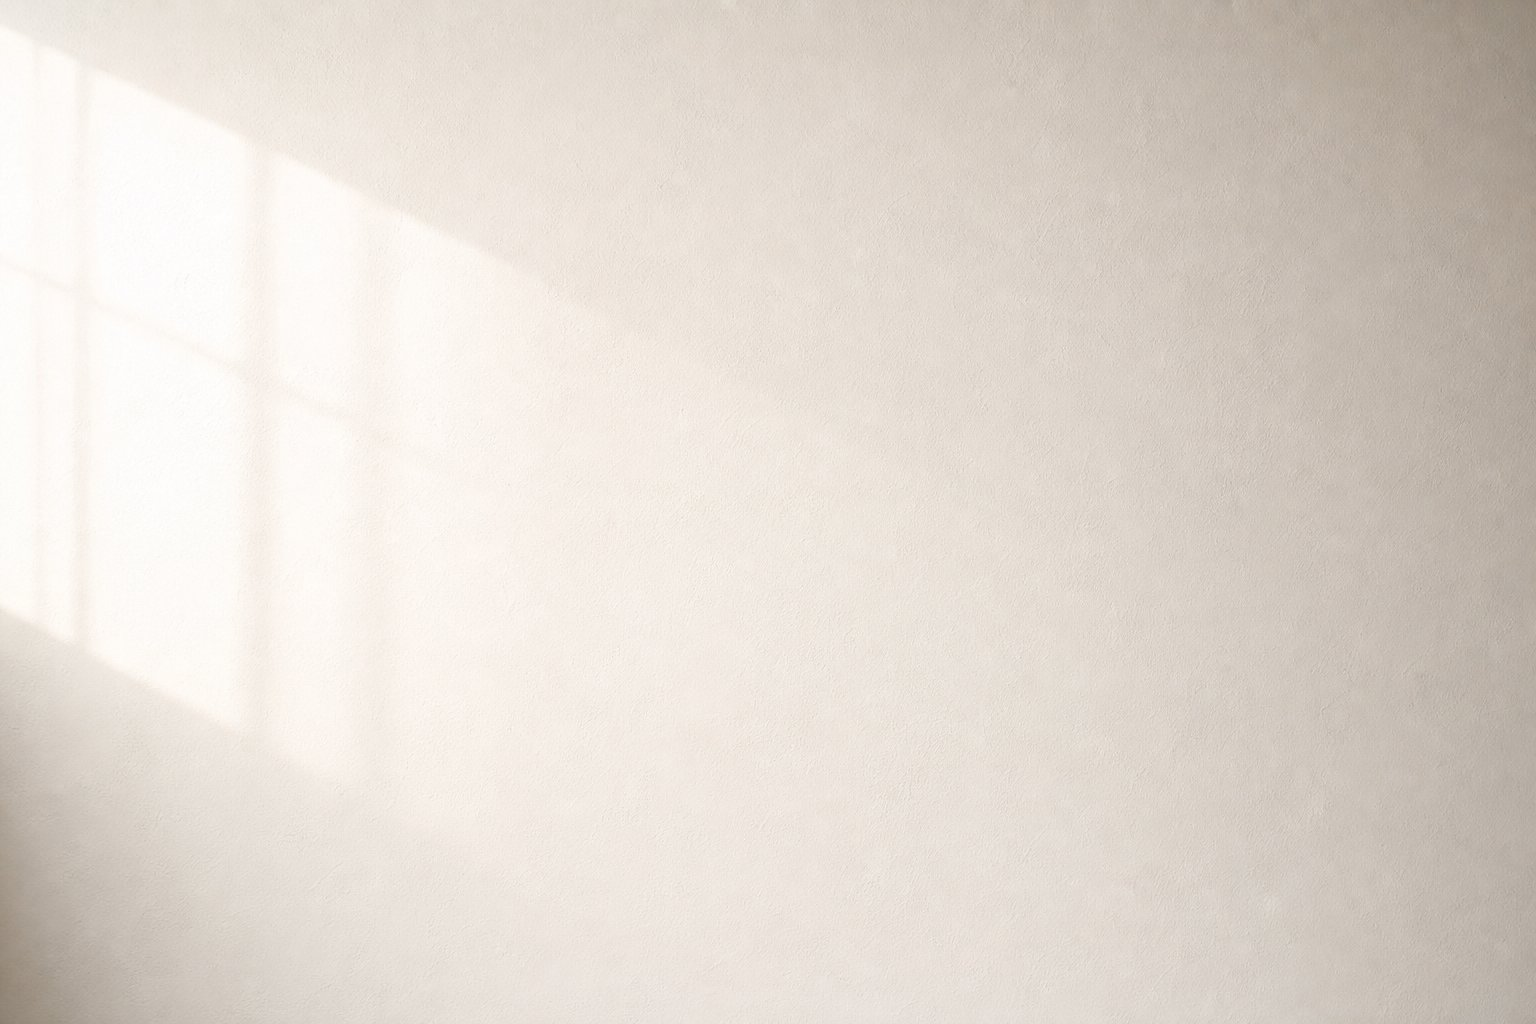
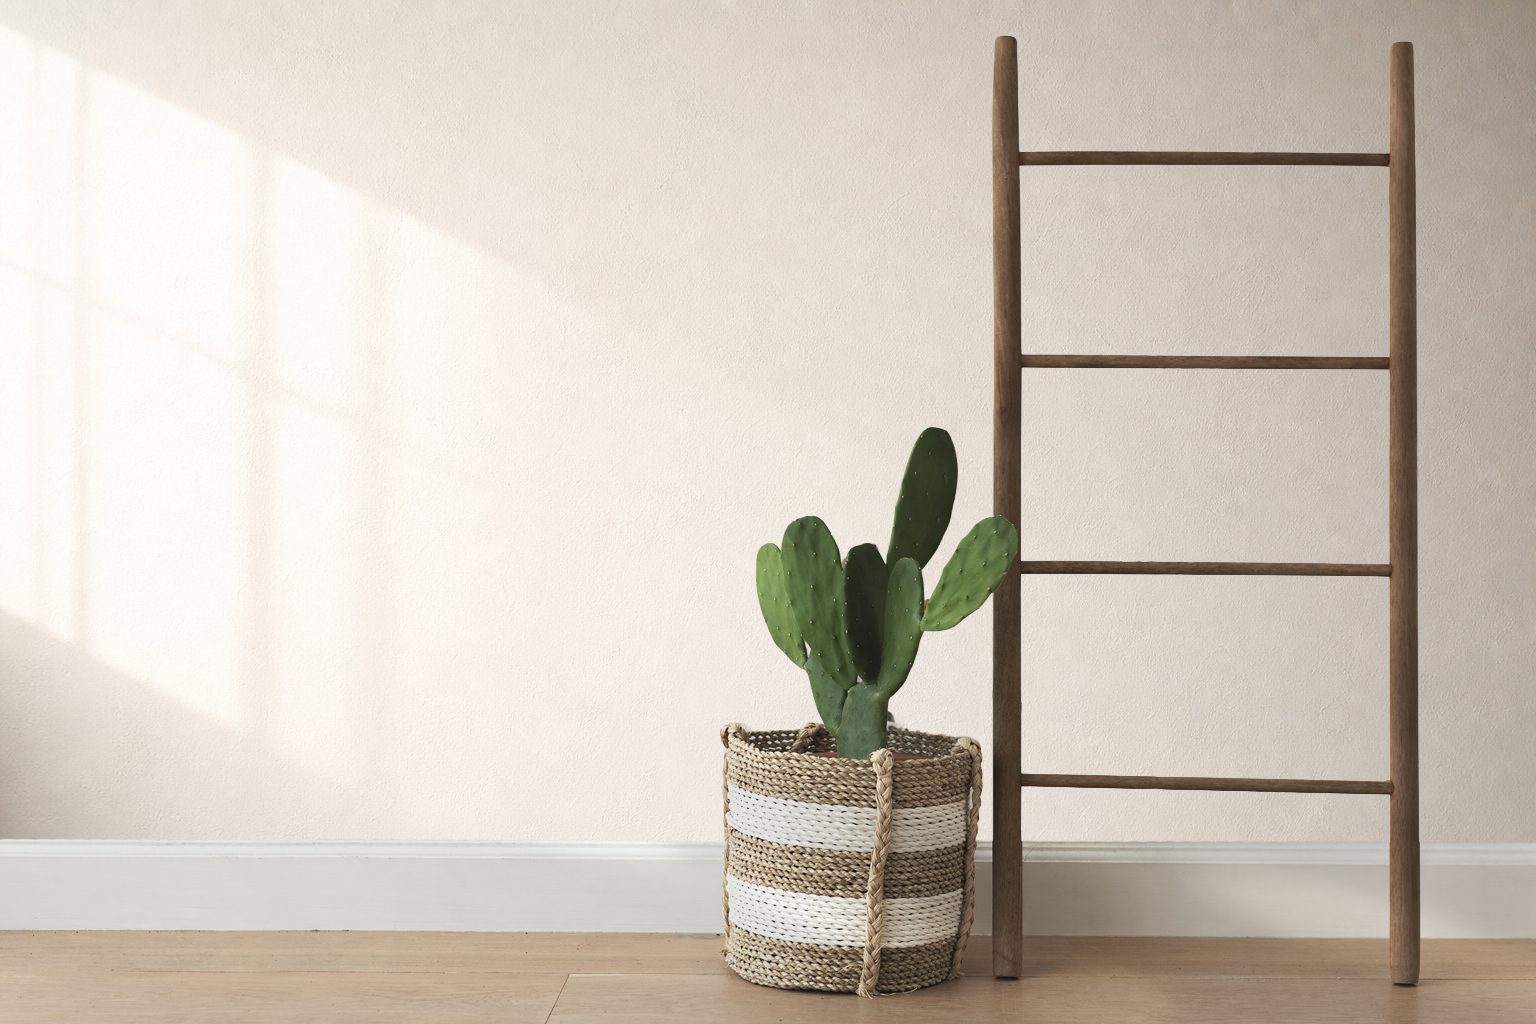
Mockups add

Changed region(s): [[0.0, 0.0312, 1.0, 1.0], [0.9688, 0.8125, 1.0, 0.8438]]

diff --git a/assets/js/print-studio.js b/assets/js/print-studio.js
@@ -17,7 +17,7 @@
      drape: 0..1  subtle pattern bend with the folds
      fabric: 0..1 strength of the fabric-lighting transfer            */
   var PRODUCTS = [
-    { id: "wallpaper", label: "Wallpaper",     file: "mock-wallpaper.jpg", mask: null,               base: 30, drape: 0,    fabric: 0.25 },
+    { id: "wallpaper", label: "Wallpaper",     file: "mock-wallpaper.jpg", mask: "mask-wallpaper.png",               base: 30, drape: 0,    fabric: 0.25 },
     { id: "dress",     label: "Dress",         file: "mock-dress.jpg",     mask: "mask-dress.png",   base: 28, drape: 0.5,  fabric: 1.0 },
     { id: "bikini",    label: "Bikini",        file: "mock-bikini.jpg",    mask: "mask-bikini.png",  base: 22, drape: 0.4,  fabric: 1.0 },
     { id: "cushion",   label: "Cushion 45\u00D745", file: "mock-cushion.jpg", mask: "mask-cushion.png", base: 38, drape: 0,  fabric: 0.9 },
